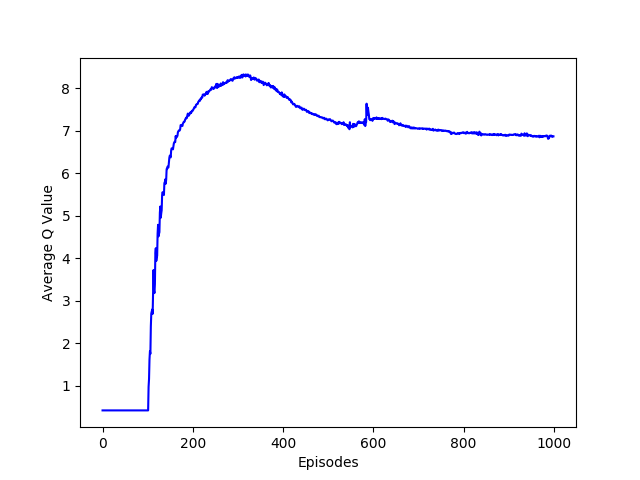
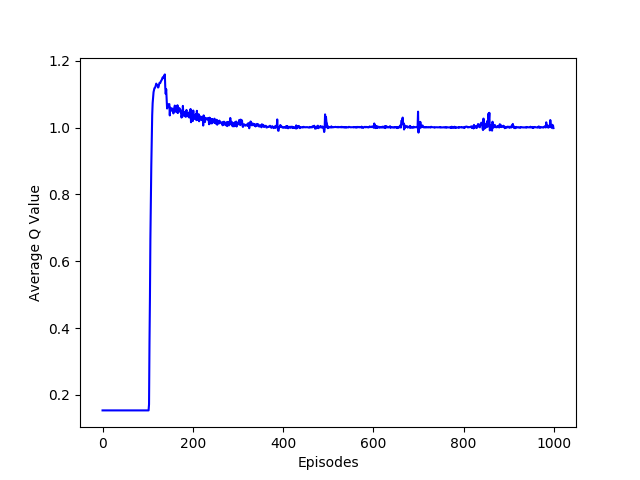
Written tets

diff --git a/lab_2/tests.py b/lab_2/tests.py
@@ -1,8 +1,83 @@
 import gym
 import numpy as np
+import random
 
-from cartpole_dqn import Agent
+from cartpole_dqn import DQNAgent
+
+def evaluate_random(env, tests_num = 100):
+    rewards = np.zeros(tests_num)
+    i = 0
+    while i < tests_num:
+        done = False
+        state = env.reset()
+        while not done:
+            action = random.randrange(2)
+            _, reward, done, _ = env.step(action)
+            rewards[i] += reward
+        i += 1
+    return np.mean(rewards)
+
+def evaluate_federico(env, tests_num = 100):
+    rewards = np.zeros(tests_num)
+    i = 0
+    while i < tests_num:
+        done = False
+        state = env.reset()
+        while not done:
+            action = 0
+            if state[2] > 0:
+                action = 1
+            state, reward, done, _ = env.step(action)
+            rewards[i] += reward
+        i += 1
+    return np.mean(rewards)
+
+def evaluate_oleguer(env, tests_num = 100):
+    rewards = np.zeros(tests_num)
+    i = 0
+    while i < tests_num:
+        done = False
+        state = env.reset()
+        while not done:
+            action = 0
+            if state[2] > 0 and state[1] > -2.4:
+                action = 1
+            state, reward, done, _ = env.step(action)
+            rewards[i] += reward
+        i += 1
+    return np.mean(rewards)
+
+def evaluate_agent(env, agent, tests_num = 100):
+    rewards = np.zeros(tests_num)
+    i = 0
+    while i < tests_num:
+        done = False
+        state = env.reset()
+        while not done:
+            action = agent.get_action(np.reshape(state, [1, 4]))
+            # action = (action + 1)%2
+            state, reward, done, _ = env.step(action)
+            rewards[i] += reward
+        i += 1
+    return np.mean(rewards)
+
 
 if __name__ == "__main__":
     env = gym.make('CartPole-v0')
+    agent = DQNAgent(state_size = env.observation_space.shape[0],
+                  action_size = env.action_space.n)
+
+    agent.load("test1")  # Load NN weights
+
+    tests_num = 100
+    random_value = evaluate_random(env = env, tests_num = tests_num)
+    federico_value = evaluate_federico(env = env, tests_num = tests_num)
+    oleguer_value = evaluate_oleguer(env = env, tests_num = tests_num)
+    agent_value = evaluate_agent(env = env, agent = agent, tests_num = tests_num)
     
+    print("Random value:", random_value)
+    print("Federico value:", federico_value)
+    print("Oleguer value:", oleguer_value)
+    print("Agent value:", agent_value)
+
+

diff --git a/lab_2/cartpole_dqn.py b/lab_2/cartpole_dqn.py
@@ -26,13 +26,13 @@ class DQNAgent:
        #  Modify here
 
         # Set hyper parameters for the DQN. Do not adjust those labeled as Fixed.
-        self.discount_factor = 0.85
+        self.discount_factor = 0.95
         self.learning_rate = 0.005
         self.epsilon = 0.02 # Fixed
         self.batch_size = 32 # Fixed
         self.memory_size = 1000
         self.train_start = 1000 # Fixed
-        self.target_update_frequency = 5
+        self.target_update_frequency = 1
 
         # Number of test states for Q value plots
         self.test_state_no = 10000
@@ -57,7 +57,7 @@ class DQNAgent:
         model = Sequential()
         model.add(Dense(16, input_dim=self.state_size, activation='relu',
                         kernel_initializer='he_uniform'))
-        model.add(Dense(16, input_dim=16, activation='relu'))
+        # model.add(Dense(16, input_dim=16, activation='relu'))
         model.add(Dense(self.action_size, activation='linear',
                         kernel_initializer='he_uniform'))
         model.summary()
@@ -113,7 +113,9 @@ class DQNAgent:
         # Tip 1: Observe that the Q-values are stored in the variable target
         # Tip 2: What is the Q-value of the action taken at the last state of the episode?
         for i in range(self.batch_size): # For every batch
-            target[i][action[i]] = reward[i] + self.discount_factor*np.max(target_val[i]) #- target[i][action[i]]
+            target[i][action[i]] = reward[i]
+            if not done:
+                target[i][action[i]] += self.discount_factor*np.max(target_val[i])
         # # # # # # # # # # # # # # # # # # # # # # # # # # # # # # # # # # # # # # # # # # # # # # # # # # # # # # # # # # # # # # # # # # # # # # # # # # # # # # # 
         # # # # # # # # # # # # # # # # # # # # # # # # # # # # # # # # # # # # # # # # # # # # # # # # # # # # # # # # # # # # # # # # # # # # # # # # # # # # # # # 
 
@@ -227,4 +229,5 @@ if __name__ == "__main__":
                         print("solved after", e-100, "episodes")
                         agent.plot_data(episodes,scores,max_q_mean[:e+1])
                         sys.exit()
+    agent.save("test1")
     agent.plot_data(episodes,scores,max_q_mean)
